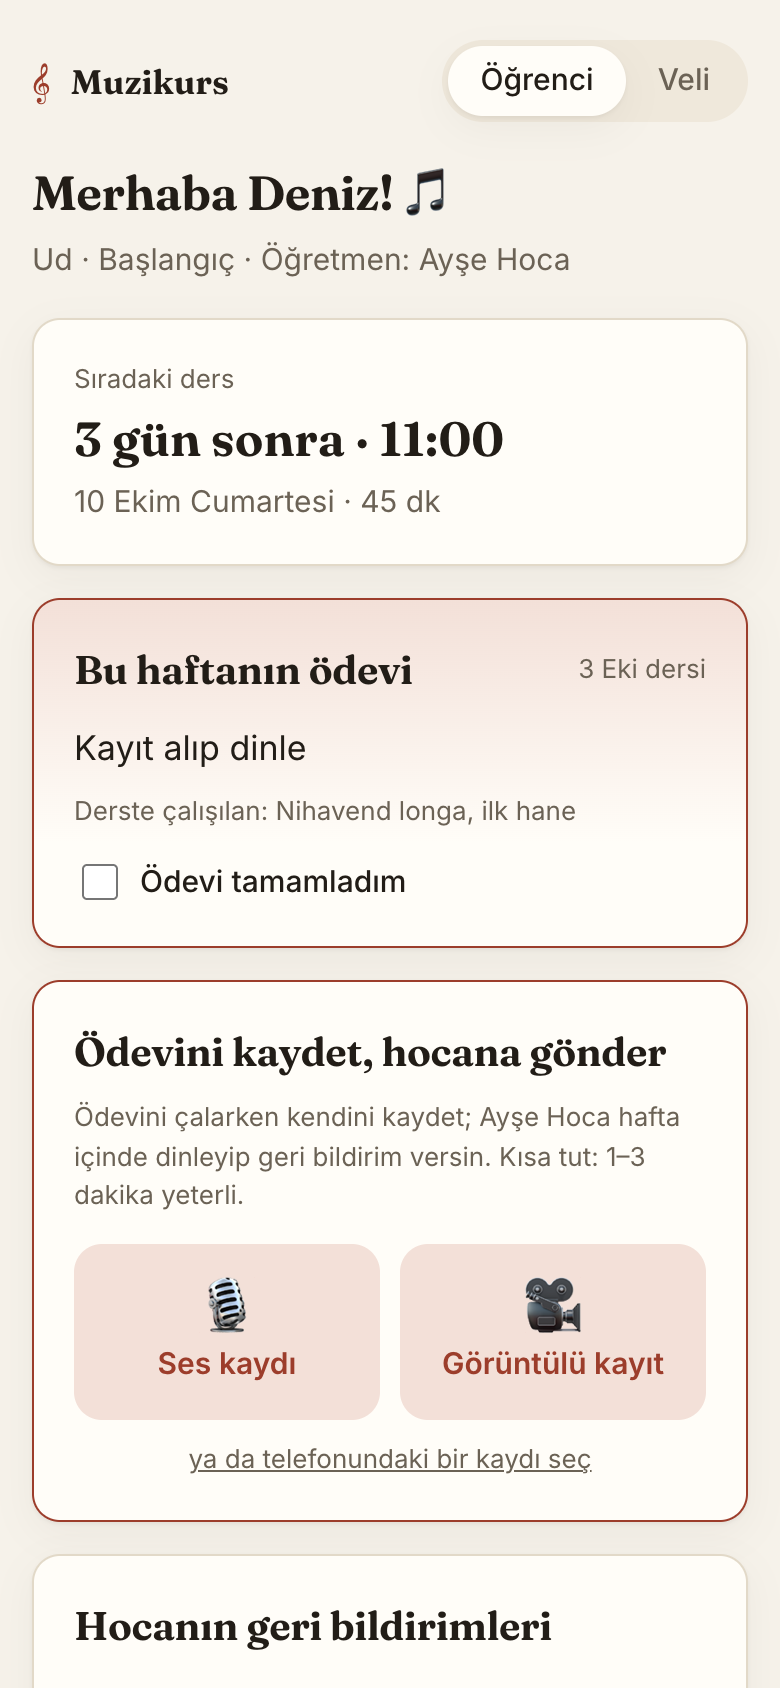
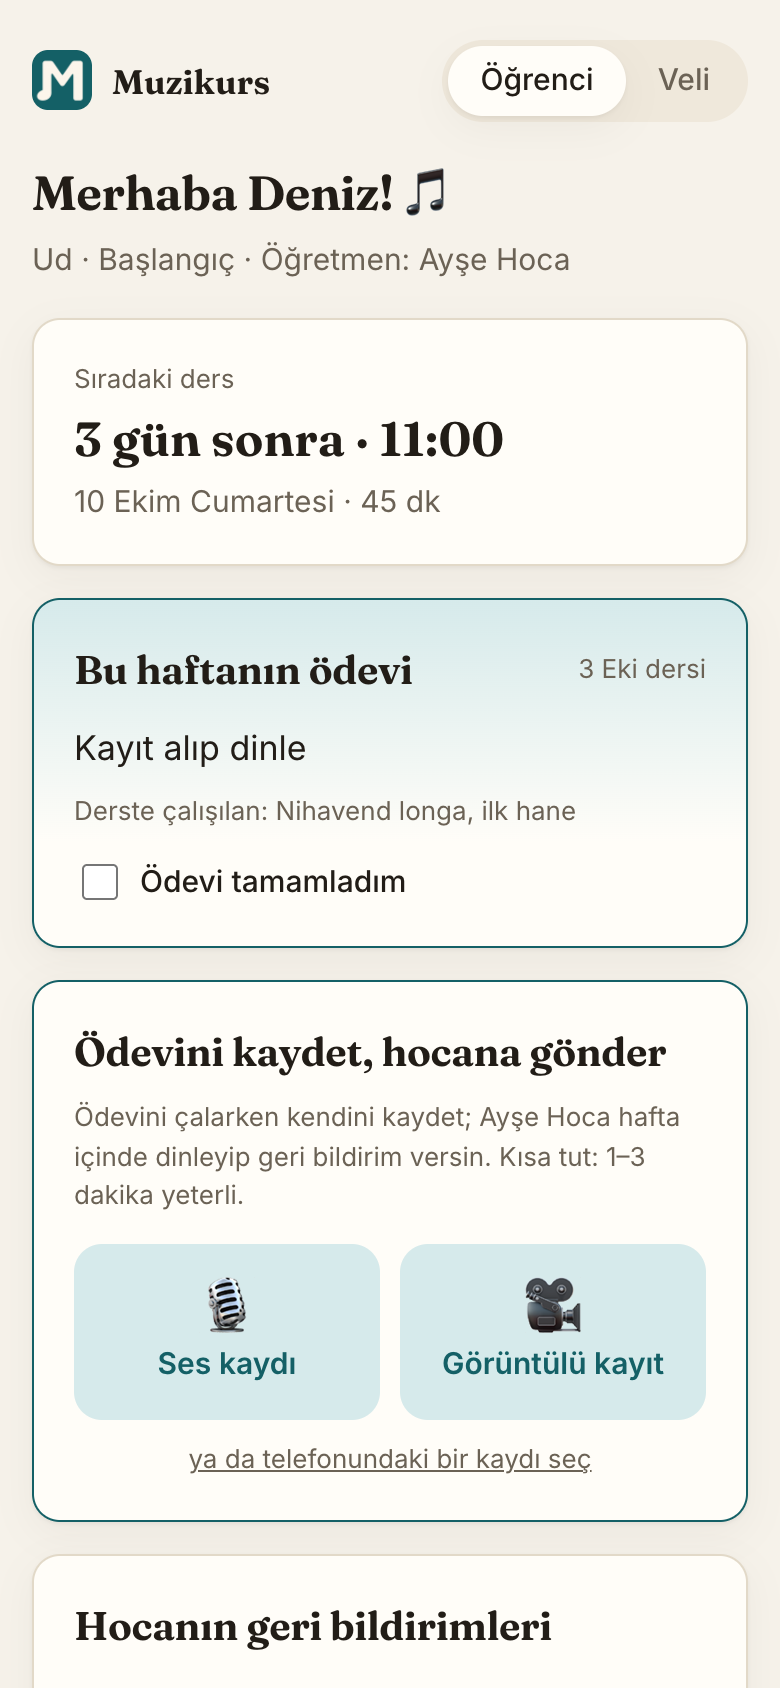
Uygulama renklerini logoya göre turkuaza çevir
Vurgu renkleri (açık ve koyu tema) turkuaz oldu; uygulama ve öğrenci/veli
sayfasındaki menü logosu M-nota ile değiştirildi. Tanıtım sayfasındaki ekran
görüntüleri yeni renklerle yeniden alındı.

Changed region(s): [[0.0923, 0.7393, 0.9231, 0.8626], [0.0308, 0.3389, 0.9846, 0.4005], [0.0308, 0.0308, 0.3385, 0.0924]]

diff --git a/app/styles.css b/app/styles.css
@@ -5,9 +5,9 @@
   --ink: #221d17;
   --ink-2: #6b6255;
   --line: #e2d9c8;
-  --accent: #9c3d2b;
+  --accent: #146066;
   --accent-ink: #fff;
-  --accent-soft: #f3e0d8;
+  --accent-soft: #d6eaeb;
   --ok: #3f7a4a;
   --ok-soft: #e0eedf;
   --warn: #a8741a;
@@ -28,9 +28,9 @@
     --ink: #f1eadf;
     --ink-2: #a89d8c;
     --line: #3a3328;
-    --accent: #e0826a;
-    --accent-ink: #1b120e;
-    --accent-soft: #3d2620;
+    --accent: #5ec2c6;
+    --accent-ink: #062123;
+    --accent-soft: #163b3f;
     --ok: #86c28f;
     --ok-soft: #22321f;
     --warn: #e0b35c;
@@ -68,7 +68,7 @@ a { color: inherit; }
   padding: 20px 12px; border-right: 1px solid var(--line); background: var(--surface);
 }
 .brand { display: flex; align-items: center; gap: 10px; padding: 4px 10px 22px; }
-.brand-mark { font-size: 28px; color: var(--accent); line-height: 1; }
+.brand-mark { display: block; width: 30px; height: 30px; border-radius: 8px; }
 .brand-name { font-family: Fraunces, serif; font-size: 20px; font-weight: 650; }
 .nav a {
   display: flex; align-items: center; gap: 12px;

diff --git a/app/js/portal/render.js b/app/js/portal/render.js
@@ -204,7 +204,7 @@ export async function renderPortal(code) {
 
   view.innerHTML = `
     <header class="portal-head">
-      <div class="brand"><span class="brand-mark">𝄞</span><span class="brand-name">Muzikurs</span></div>
+      <div class="brand"><img class="brand-mark" src="/icon-512.png" width="30" height="30" alt="" /><span class="brand-name">Muzikurs</span></div>
       <div class="seg" role="tablist">
         <button role="tab" aria-selected="${portal.tab === 'student'}" data-tab="student">Öğrenci</button>
         <button role="tab" aria-selected="${portal.tab === 'parent'}" data-tab="parent">Veli</button>

diff --git a/app/index.html b/app/index.html
@@ -15,7 +15,7 @@
   <div class="app">
     <nav class="nav">
       <div class="brand">
-        <span class="brand-mark">𝄞</span>
+        <img class="brand-mark" src="/icon-512.png" width="30" height="30" alt="" />
         <span class="brand-name">Muzikurs</span>
       </div>
       <a href="#/" data-route="dashboard"><span class="ico">◐</span><span>Pano</span></a>
